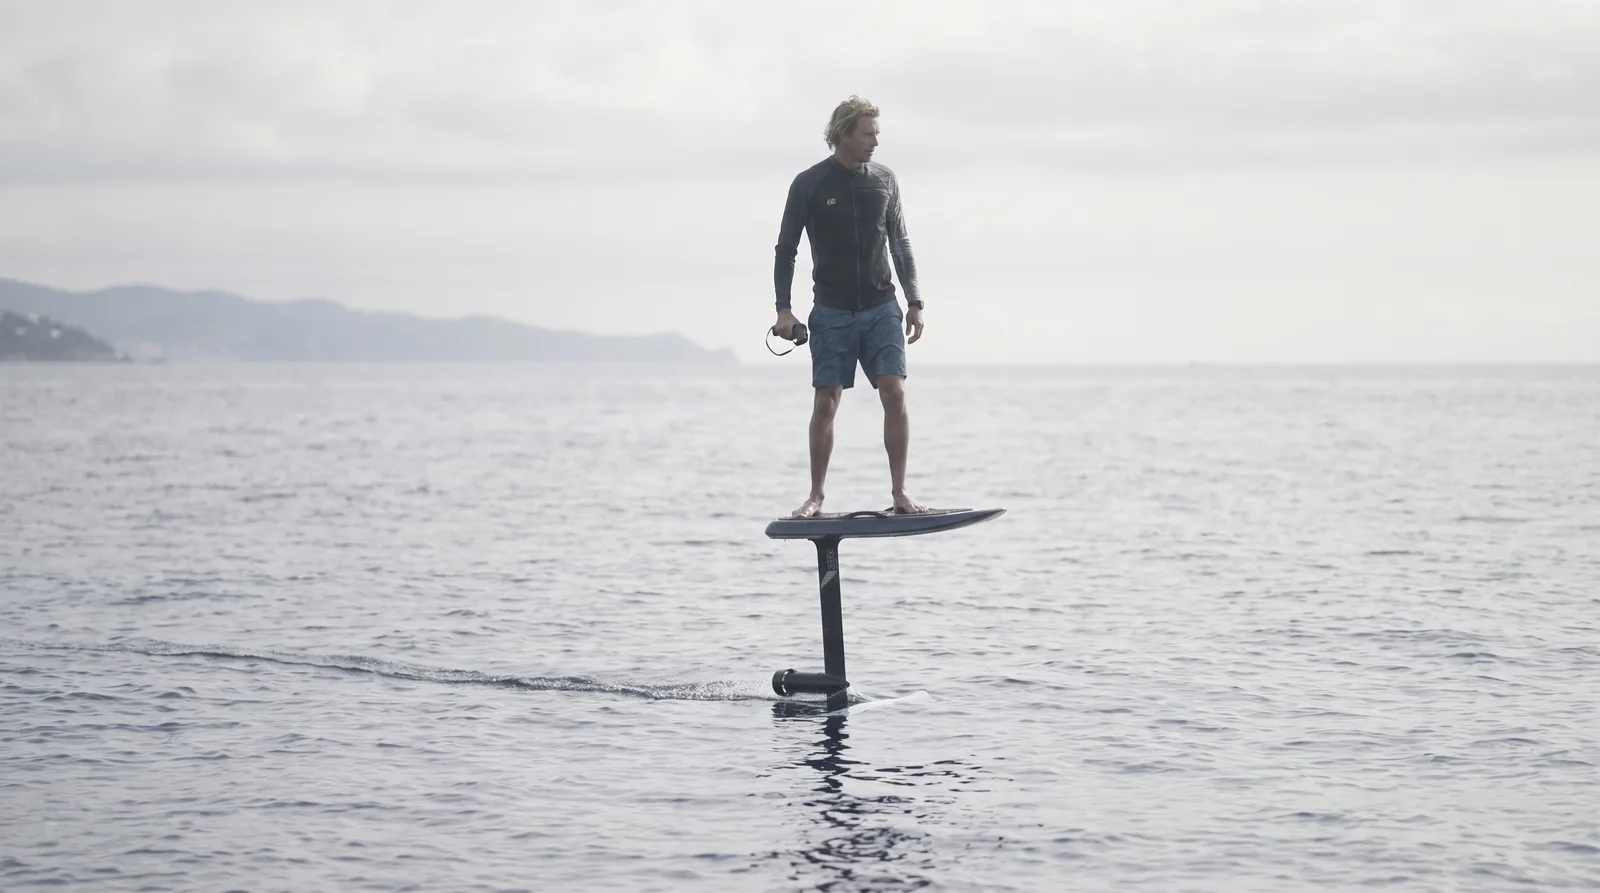
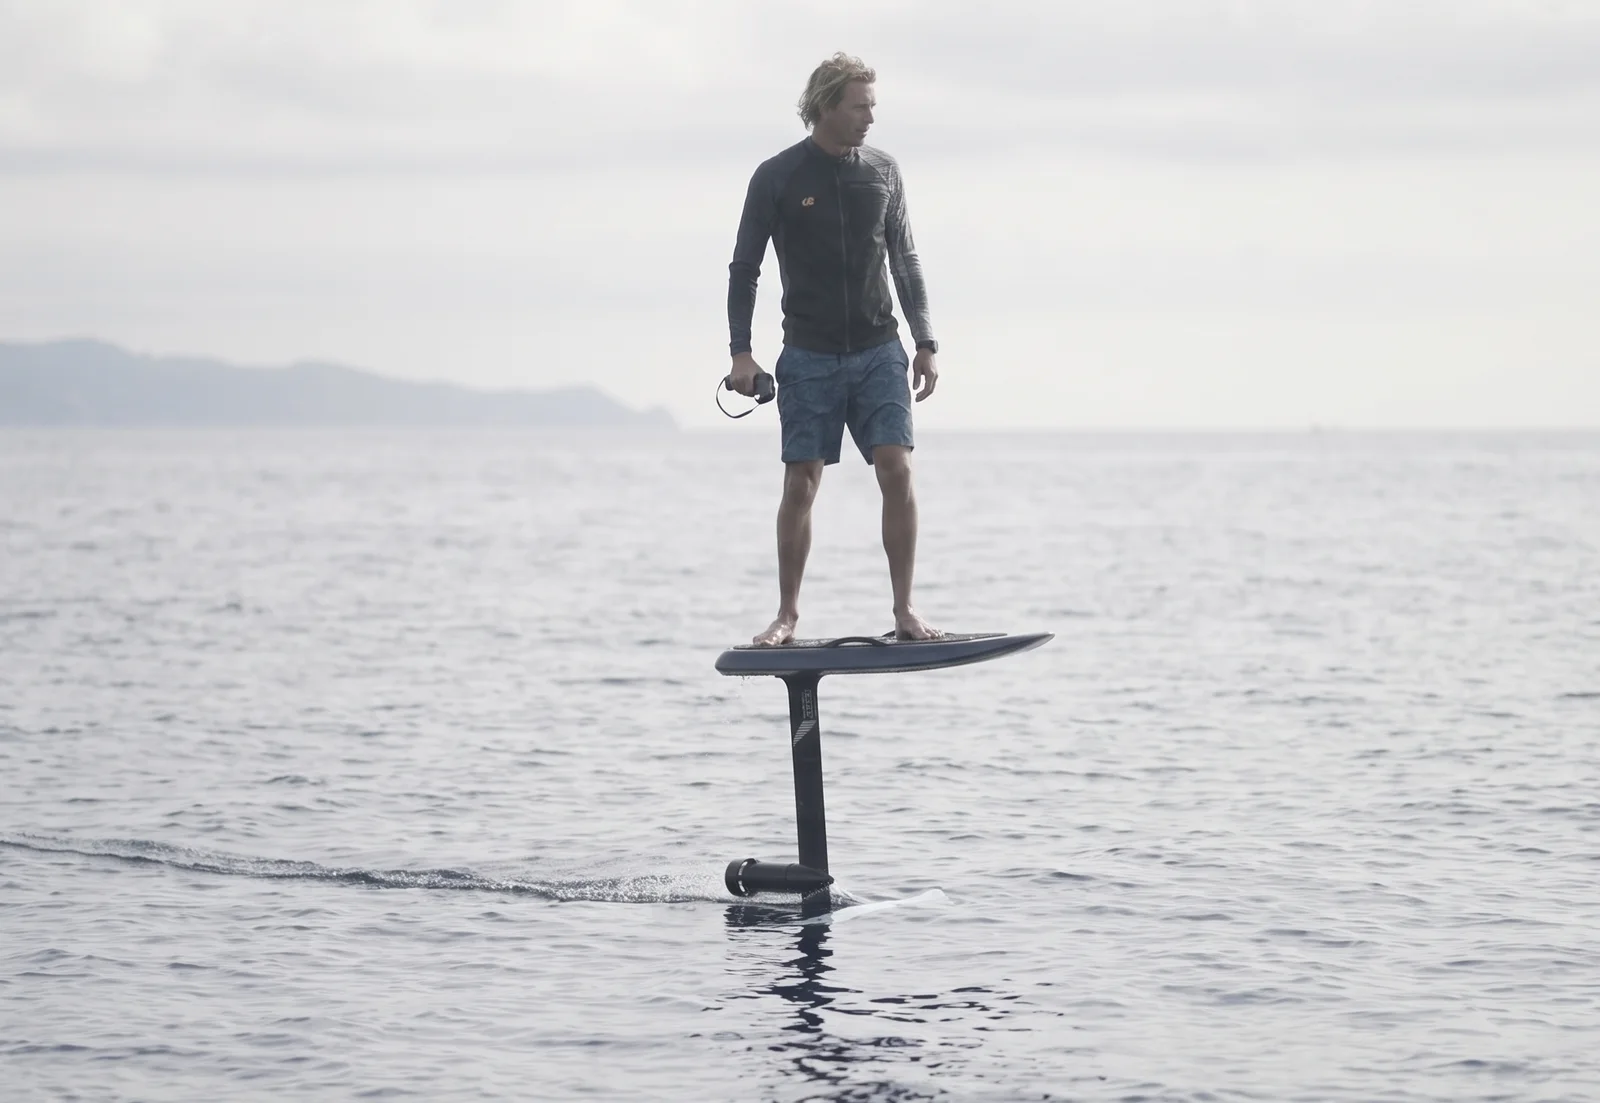
fix(motos): el e-foil salía con el título de la excursión, y su foto recortada
Dos cosas que destapó el producto nuevo en el hub de motos.

1. La tarjeta del e-foil mostraba su imagen y su precio (95€) pero el
   título y la descripción de "Excursión en Jet Ski con Monitor". La causa
   era un binario sobre un conjunto abierto: la clave de copy se infería
   con `pageKey === "jetskiCircuito" ? "circuito" : "excursion"`, así que
   cualquier producto que no fuera el circuito heredaba el texto de la
   excursión. Ahora se busca en un mapa y, si no hay entrada, cae al nombre
   del propio catálogo en vez de tomar prestado el del vecino.

2. La foto se veía mal en la tarjeta: las de moto son 1.49 y la caja 1.45,
   pero la del e-foil era 16:9 (1.79), así que object-cover la recortaba y
   el rider quedaba diminuto en mar abierto. Reencuadrada a 1.45 y cerrada
   sobre el sujeto: ahora se leen el rider, la tabla, el mástil, la unidad
   de motor y el mando.

Y el hero del hub pasa de min-h-[80vh] a 100svh: el degradado es inset-0
sobre la sección, así que a 80vh se quedaba corto y no llegaba al pliegue.
svh y no vh para que el chrome del móvil no empuje el borde fuera.

diff --git a/client/src/pages/jet-ski-blanes.tsx b/client/src/pages/jet-ski-blanes.tsx
@@ -48,11 +48,21 @@ export default function JetSkiBlanesHub() {
   const heroAlt = excursion?.altText ?? "Moto de agua al atardecer en la Costa Brava";
 
   // Experience cards from the canonical catalogue + translated copy.
+  //
+  // The copy key is looked up, not inferred. It used to be
+  // `pageKey === "jetskiCircuito" ? "circuito" : "excursion"`, a binary over an
+  // open set: the e-foil product added on 2026-07-26 fell into the else branch
+  // and shipped with the jet ski excursion's title and description over its own
+  // photo and price. An unknown product now falls back to its own catalogue
+  // name instead of borrowing a sibling's.
+  const COPY_KEY_BY_PAGE: Record<string, "circuito" | "excursion" | "efoil"> = {
+    jetskiCircuito: "circuito",
+    jetskiExcursion: "excursion",
+    efoilBlanes: "efoil",
+  };
   const cards = JETSKI_PRODUCTS.map((p) => {
-    const copyKey = (p.pageKey === "jetskiCircuito" ? "circuito" : "excursion") as
-      | "circuito"
-      | "excursion";
-    const copy = t.jetskiLanding?.[copyKey];
+    const copyKey = COPY_KEY_BY_PAGE[p.pageKey];
+    const copy = copyKey ? t.jetskiLanding?.[copyKey] : undefined;
     return {
       id: p.id,
       href: localizedPath(p.pageKey),
@@ -101,8 +111,12 @@ export default function JetSkiBlanesHub() {
       />
       <Navigation />
 
-      {/* HERO — full-bleed coastal photography, the Salt Memory entry */}
-      <section className="relative isolate flex min-h-[80vh] items-center overflow-hidden pb-20 pt-28">
+      {/* HERO — full-bleed coastal photography, the Salt Memory entry.
+          Full viewport: the photo and its gradient are `inset-0` on this
+          section, so the section's height IS the overlay's height — at 80vh the
+          gradient stopped short of the fold. `svh` (not `vh`) so the mobile
+          browser chrome doesn't push the bottom of the gradient off screen. */}
+      <section className="relative isolate flex min-h-[100svh] items-center overflow-hidden pb-20 pt-28">
         <picture>
           <source type="image/avif" srcSet={heroSrcSetAvif} sizes="100vw" />
           <img
